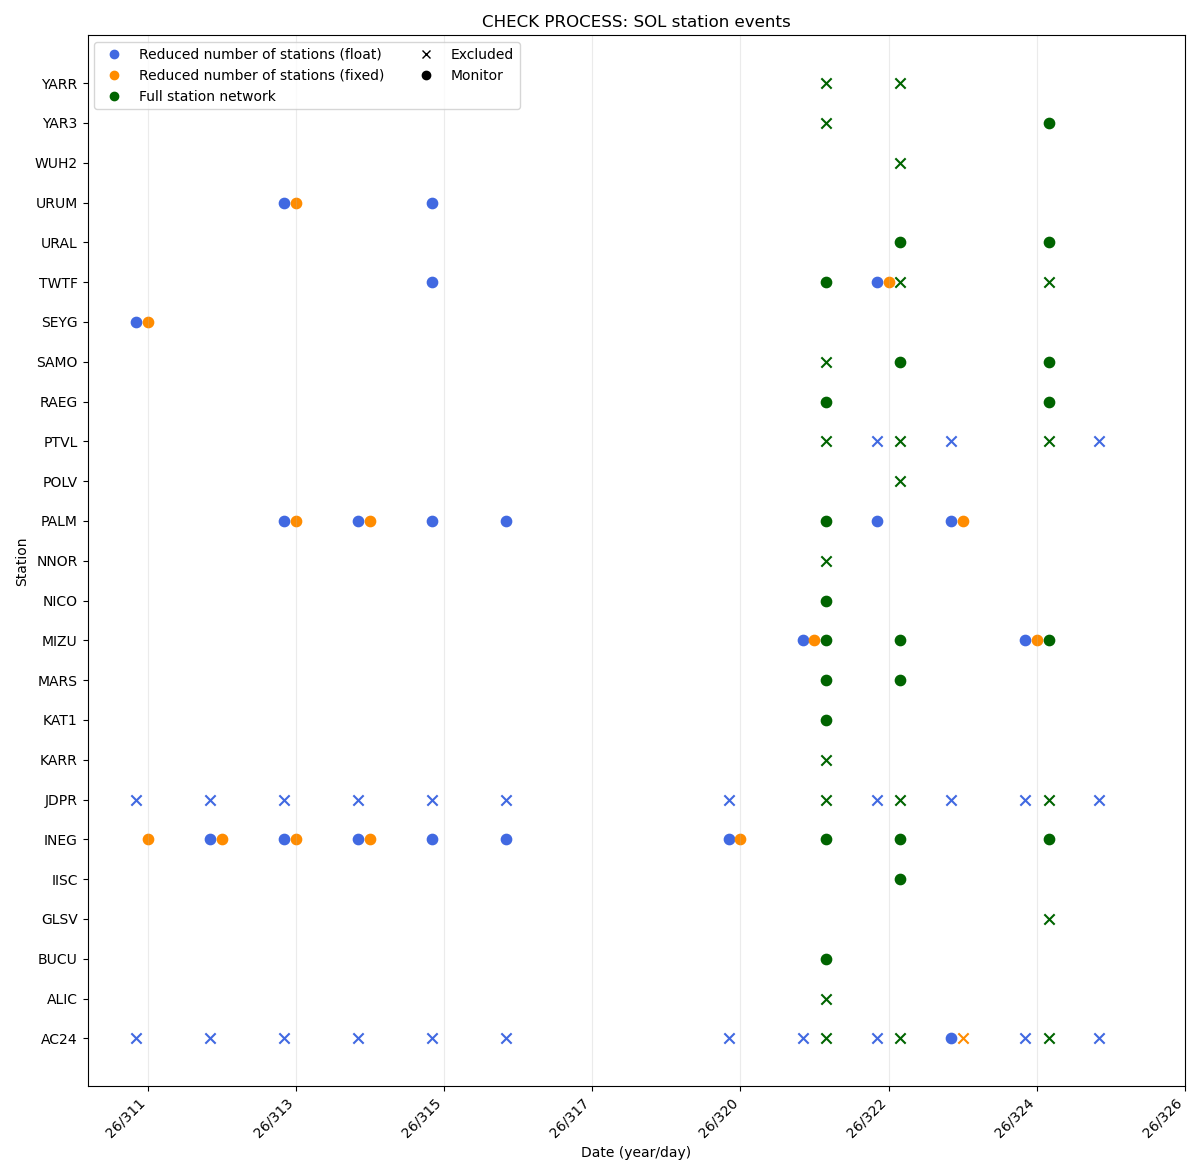
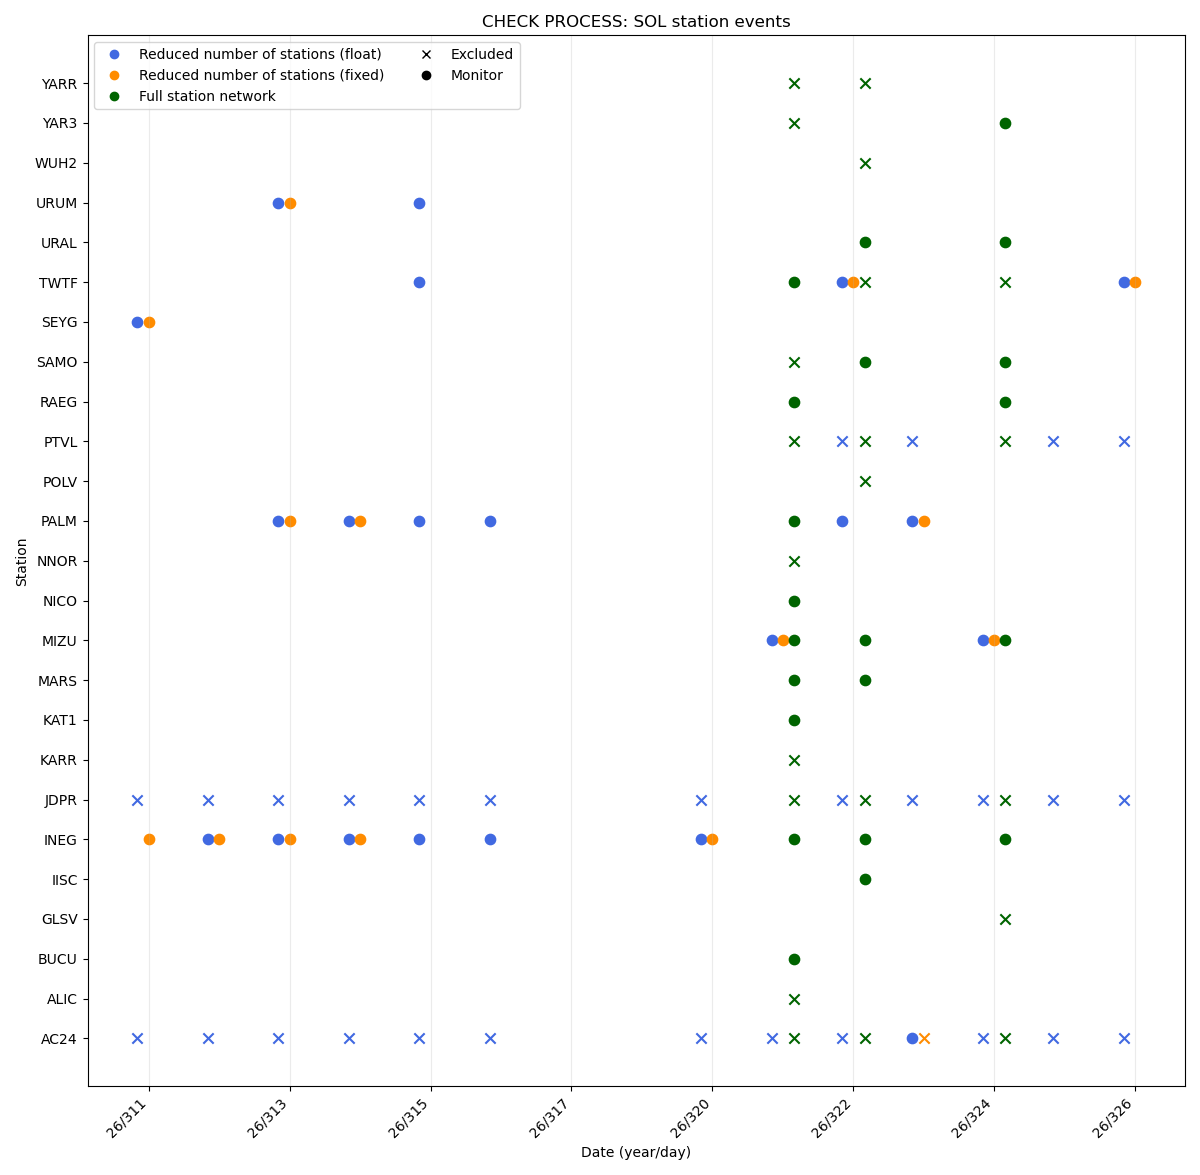
Auto update monitoring 2026-11-23 07:01

diff --git a/satclk_list.js b/satclk_list.js
@@ -9,4 +9,5 @@ const satclk_files = [
     "sat_clock_completeness_26323.txt",
     "sat_clock_completeness_26324.txt",
     "sat_clock_completeness_26325.txt",
+    "sat_clock_completeness_26326.txt",
 ];
